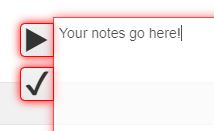
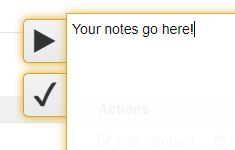
Switch editing color to goldenrod

Changed region(s): [[0.0, 0.0305, 1.0, 1.0]]

diff --git a/js/extension/features/editing-notepad.js b/js/extension/features/editing-notepad.js
@@ -185,8 +185,8 @@ rl.ready( () => {
 
     .${notepadEditingClass} #${notepadAreaId} {
       cursor: text;
-      outline: 1px solid red !important;
-      box-shadow: 0 0 10px red !important;
+      outline: 1px solid goldenrod !important;
+      box-shadow: 0 0 10px goldenrod !important;
     }
 
     .${notepadEditingClass} #${notepadAreaId} * {
@@ -239,8 +239,8 @@ rl.ready( () => {
     }
 
     .${notepadEditingClass} .${buttonClass} {
-      border: 1px solid red !important;
-      box-shadow: 0 0 10px red;
+      border: 1px solid goldenrod !important;
+      box-shadow: 0 0 10px goldenrod;
     }
   `;
 
